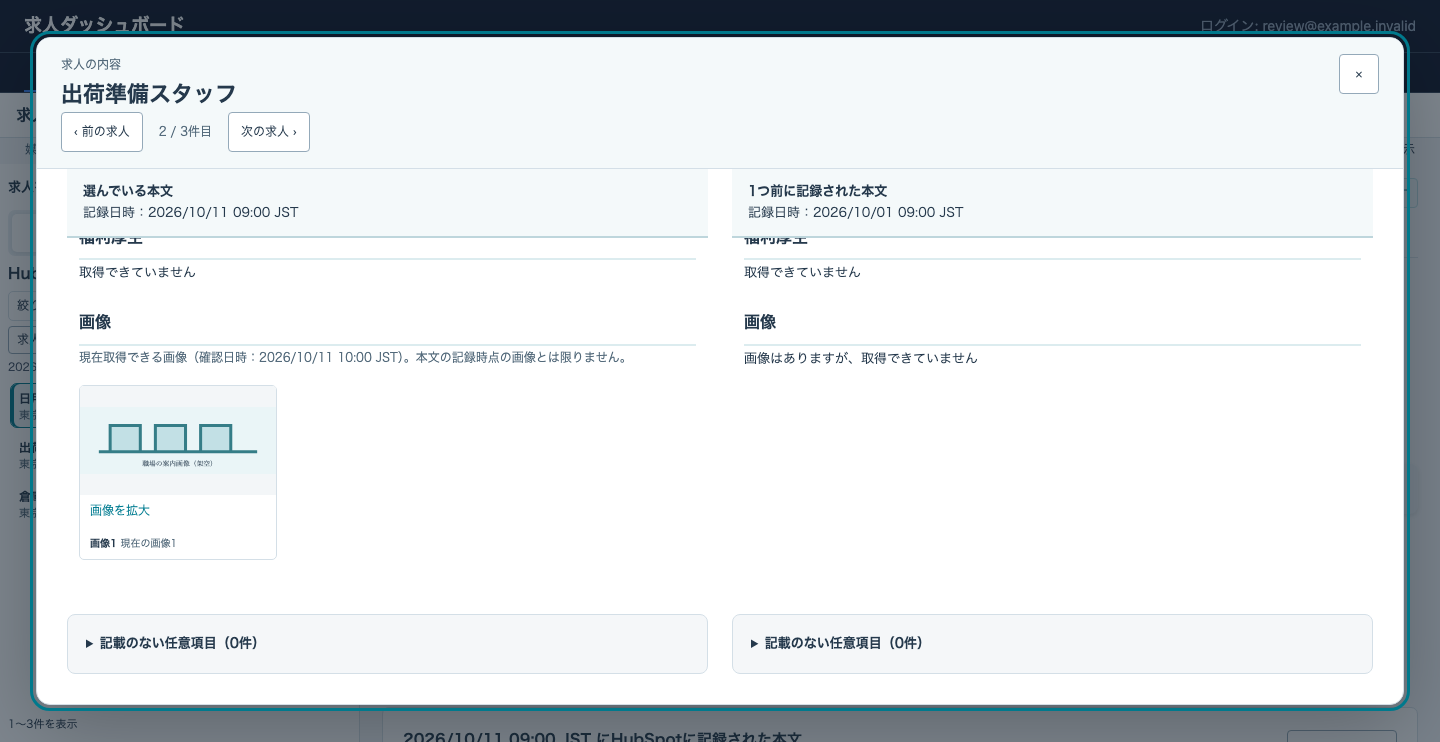
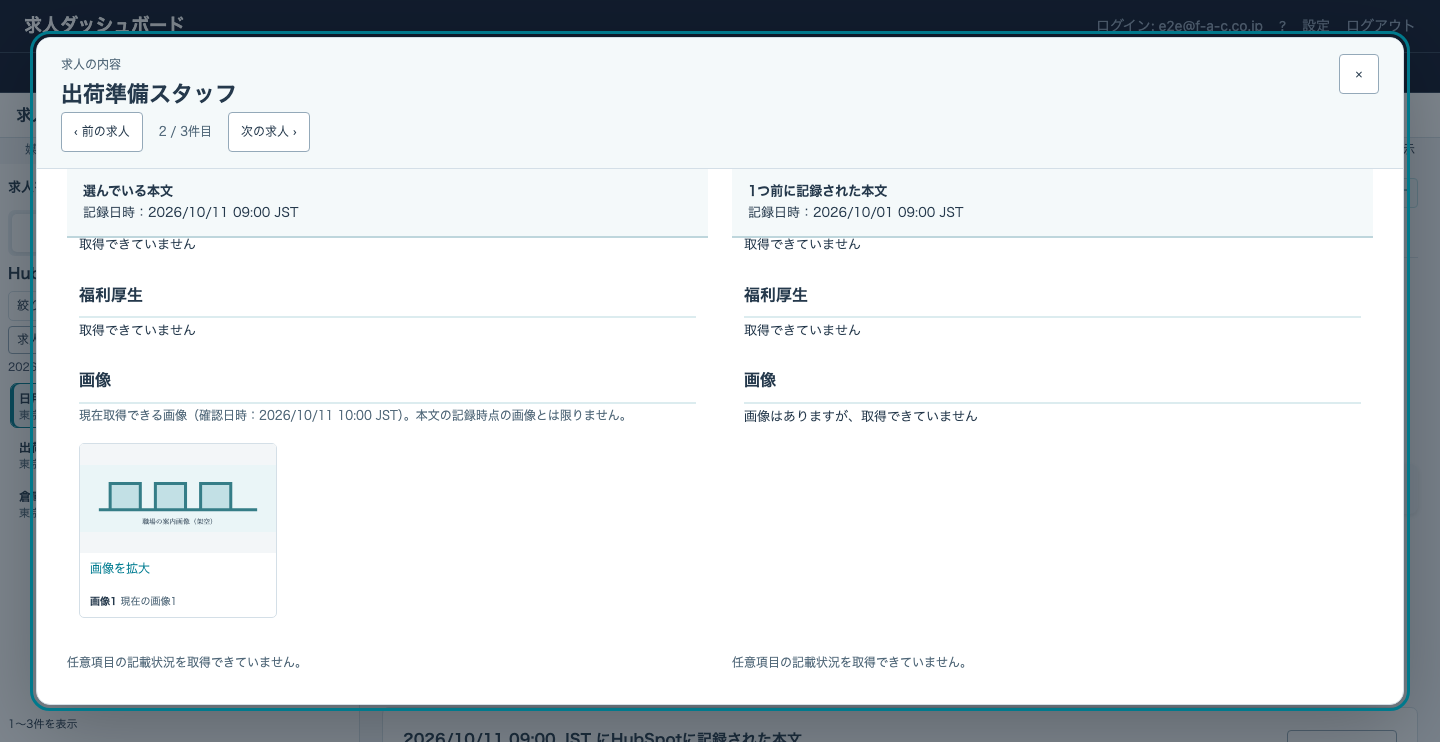
取得不能の空欄表示と短文・長文の変更文字の色付けを修正

diff --git a/frontend/src/screens/job-copy/listingPopupModel.ts b/frontend/src/screens/job-copy/listingPopupModel.ts
@@ -42,9 +42,11 @@ export function listingPopupModel(job: JobCopyRecord, version?: CopyVersion) {
   const row = Object.fromEntries(fields);
   const get = (key: string) => fields.get(key) ?? '';
   const entry = (key: string): ListingEntry => ({ key, label: comparisonLabel(key), value: comparisonValue(key, get(key), raw, row) });
-  const hasSalary = ['給与形態', '基本給与 最小', '基本給与 最大'].some(key => get(key).trim());
+  const salaryFieldKeys = ['給与形態', '基本給与 最小', '基本給与 最大'];
+  const salaryKnown = bodyAvailable && salaryFieldKeys.every(key => fields.has(key));
+  const hasSalary = salaryFieldKeys.some(key => get(key).trim());
   const salary = hasSalary ? composeSalary(get('給与形態').trim(), get('基本給与 最小').trim(), get('基本給与 最大').trim())
-    : bodyAvailable && (structured || ['給与形態', '基本給与 最小', '基本給与 最大'].every(key => fields.has(key))) ? '記載なし' : '取得できていません';
+    : salaryKnown ? '記載なし' : '取得できていません';
   const consumed = new Set(['案件名', '公開', ...imageKeys]);
   const sections: ListingSection[] = groups.map(([heading, keys]) => {
     keys.forEach(key => consumed.add(key));
@@ -54,7 +56,7 @@ export function listingPopupModel(job: JobCopyRecord, version?: CopyVersion) {
       if (hasSalary) entries.unshift({ key: 'salary', label: '給与', value: salary });
     }
     if (groups.findIndex(group => group[0] === heading) < 7 && (heading === '給与' ? !hasSalary : !get(keys[0] ?? '').trim())) {
-      const known = bodyAvailable && (heading === '勤務地・アクセス' ? fields.has('勤務地') : structured || fields.has(keys[0] ?? ''));
+      const known = heading === '給与' ? salaryKnown : bodyAvailable && (heading === '勤務地・アクセス' ? fields.has('勤務地') : structured || fields.has(keys[0] ?? ''));
       entries.unshift({ key: heading === '給与' ? 'salary' : keys[0] ?? heading, label: heading, value: known ? '記載なし' : '取得できていません', unavailable: !known });
     }
     return { heading, entries };
@@ -77,11 +79,12 @@ export function listingPopupModel(job: JobCopyRecord, version?: CopyVersion) {
   const publication = get('公開').trim() ? displayCode('公開', get('公開')) === '確認が必要' ? '確認が必要' : publicationLabel(get('公開'))
     : version?.observedPublicationStatus ? publicationLabel(version.observedPublicationStatus) : (current || !version) ? publicationLabel(job.listingPublicationStatus ?? null) : '未取得';
   const title = get('案件名').trim() || job.title;
-  const location = get('勤務地').trim() || ((current || !version) ? job.location : '') || (bodyAvailable && fields.has('勤務地') ? '記載なし' : '取得できていません');
+  const location = get('勤務地').trim() || (bodyAvailable && fields.has('勤務地') ? '記載なし' : '取得できていません');
   const mainKeys = new Set(['案件名', '公開', '仕事内容', '勤務地', '勤務時間', '応募資格', '休日・休暇', '福利厚生', '給与形態', '基本給与 最小', '基本給与 最大', ...imageKeys]);
-  const missing = bodyAvailable && structured ? columns.filter(key => !isManagement(key) && !mainKeys.has(key) && !get(key).trim()).map(comparisonLabel) : [];
+  const optionalFieldsKnown = bodyAvailable && structured;
+  const missing = optionalFieldsKnown ? columns.filter(key => !isManagement(key) && !mainKeys.has(key) && !get(key).trim()).map(comparisonLabel) : [];
   const total = (current || !version) ? job.overallApplications?.total ?? job.listingApplicationCount : undefined;
-  return { sections, missing, images, observedImages, imageReason, imageSignature, bodyAvailable, structured, hasCurrentConditions, salary, publication,
+  return { sections, missing, images, observedImages, imageReason, imageSignature, bodyAvailable, structured, optionalFieldsKnown, hasCurrentConditions, salary, publication,
     title, location,
     applications: total == null ? '未取得' : `${String(total)}件`,
   };

diff --git a/frontend/src/screens/job-copy/ListingPopup.test.tsx b/frontend/src/screens/job-copy/ListingPopup.test.tsx
@@ -313,3 +313,44 @@ it('keeps the current copy while loading and after a failed switch, then permits
   expect(screen.getByRole('heading', { name: '確認中の求人' })).toBeTruthy();
   expect(screen.getByRole('button', { name: '次の求人 ›' })).toHaveProperty('disabled', false);
 });
+
+it.each([
+  [{ 給与形態: '' }, '取得できていません'],
+  [{ 給与形態: '', '基本給与 最小': '' }, '取得できていません'],
+  [{ 給与形態: '', '基本給与 最小': '', '基本給与 最大': '' }, '記載なし'],
+] as const)('uses the same salary availability in the AirWork summary and body for %j', (fields, expected) => {
+  const job = listingRecord({ listing: { ...listing, media: 'airwork' }, current_fields: fields, versions: [{ written_at: '2026-10-11T00:00:00Z', body: '商品を検品します。', image_urls: null }], history_counts: {}, history_may_be_incomplete: false });
+  render(<ListingPopup job={job} version={job.versions[0]} onClose={vi.fn()} />);
+  const dialog = screen.getByRole('dialog');
+  expect(dialog.querySelector('.jc-listing-popup-summary > div:nth-child(5) dd')?.textContent).toBe(expected);
+  const salary = [...dialog.querySelectorAll('.jc-listing-popup-section')].find(section => section.querySelector('h3')?.textContent === '給与');
+  expect(salary?.querySelector('p')?.textContent).toBe(expected);
+  expect(dialog.querySelectorAll('.jc-listing-popup-missing')).toHaveLength(0);
+  expect(screen.getByText('任意項目の記載状況を取得できていません。')).toBeTruthy();
+  expect(dialog.textContent).not.toContain('記載のない任意項目（0件）');
+});
+
+it('does not replace an explicitly empty acquired location with the current summary location', () => {
+  const job = record(); job.currentListingFields = { 勤務地: '' };
+  const model = listingPopupModel(job, job.versions[0]);
+  expect(model.location).toBe('記載なし');
+  expect(model.sections.find(section => section.heading === '勤務地・アクセス')?.entries[0]?.value).toBe('記載なし');
+});
+
+it.each([
+  ['検品', '梱包', '検品', '梱包'],
+  ['前'.repeat(299) + '検品' + '後'.repeat(299), '前'.repeat(299) + '梱包' + '後'.repeat(299), '検品', '梱包'],
+  ['検'.repeat(600), '梱'.repeat(600), '検'.repeat(600), '梱'.repeat(600)],
+])('colours changed text on both sides for %s → %s', (before, after, removed, added) => {
+  const job = record({ 仕事内容: after });
+  const selected = job.versions[0]; if (!selected) throw new Error('掲載本文が必要です');
+  job.versions.unshift({ ...selected, id: 'before-text', comparisonBody: rowBody({ 案件名: listing.title, 仕事内容: before, 給与形態: '月給', '基本給与 最小': '213000', '基本給与 最大': '249000', 公開: '公開' }) });
+  render(<ListingPopup job={job} version={selected} onClose={vi.fn()} />);
+  const row = screen.getByRole('dialog').querySelector('.jc-listing-comparison-row');
+  expect(row?.querySelectorAll('[aria-label="変更あり"]')).toHaveLength(2);
+  const paragraphs = row?.querySelectorAll('p');
+  expect(paragraphs?.[0]?.textContent).toBe(after);
+  expect(paragraphs?.[1]?.textContent).toBe(before);
+  expect([...paragraphs?.[0]?.querySelectorAll('mark') ?? []].map(mark => mark.textContent).join('')).toBe(added);
+  expect([...paragraphs?.[1]?.querySelectorAll('mark') ?? []].map(mark => mark.textContent).join('')).toBe(removed);
+});

diff --git a/frontend/src/screens/job-copy/ListingPopup.tsx b/frontend/src/screens/job-copy/ListingPopup.tsx
@@ -3,7 +3,7 @@ import type { CopyVersion, JobCopyRecord } from './data';
 import { formatDateTimeJst } from './format';
 import { ImageGallery } from './ImageGallery';
 import { listingComparisonRows, listingPopupModel } from './listingPopupModel';
-import { markInlineChanges } from './diff';
+import { markValueChanges } from './diff';
 import './listing-popup.css';
 
 export interface ListingNavigation {
@@ -11,7 +11,7 @@ export interface ListingNavigation {
   load: (id: string, signal: AbortSignal) => Promise<JobCopyRecord>;
 }
 function ChangedText({ value, reference, different }: { value: string; reference: string; different: boolean }) {
-  const segments = different ? markInlineChanges([{ kind: 'removed', text: reference }, { kind: 'added', text: value }]).find(line => line.kind === 'added')?.segments : undefined;
+  const segments = different ? markValueChanges(reference, value) : undefined;
   return <p className={value === '記載なし' ? 'jc-listing-absent' : undefined}>{segments ? segments.map((segment, index) => segment.changed ? <mark key={index} className="jc-mark-added">{segment.text}</mark> : segment.text) : value}</p>;
 }
 export function ListingPopup({ job, version, onClose, returnFocus, navigation }: {
@@ -71,7 +71,7 @@ export function ListingPopup({ job, version, onClose, returnFocus, navigation }:
     <h3>{imagesChanged && <span className="jc-listing-change-dot" aria-label="変更あり">● </span>}画像</h3>
     {item.images?.length ? <><ImageGallery failureMessage="画像はありますが、取得できていません" title="掲載画像" images={item.images} />{recorded?.historicalImageBytesAvailable === false && <p className="jc-listing-popup-note">画像は当時と異なる可能性があります。</p>}</> : item.observedImages ? <><p className="jc-listing-popup-note">現在取得できる画像（確認日時：{formatDateTimeJst(item.observedImages.observedAt, '未取得')}）。本文の記録時点の画像とは限りません。</p><ImageGallery failureMessage="画像はありますが、取得できていません" title="掲載画像" images={item.observedImages.images} /></> : <p>{item.imageReason}</p>}
   </section>;
-  const missing = (item: typeof model) => <details className="jc-listing-popup-missing"><summary>記載のない任意項目（{item.missing.length}件）</summary><ul>{item.missing.map((name, i) => <li key={i}>{name}</li>)}</ul></details>;
+  const missing = (item: typeof model) => !item.optionalFieldsKnown ? <p className="jc-listing-popup-note">任意項目の記載状況を取得できていません。</p> : <details className="jc-listing-popup-missing"><summary>記載のない任意項目（{item.missing.length}件）</summary><ul>{item.missing.map((name, i) => <li key={i}>{name}</li>)}</ul></details>;
   return <dialog ref={dialog} className="jc-listing-popup" role="dialog" aria-modal="true" aria-labelledby={headingId} tabIndex={-1}
     onKeyDown={event => {
       if (!(event.target instanceof HTMLElement) || event.target.closest('textarea, select, [contenteditable]:not([contenteditable="false"])') || event.target.matches('input:not([type="checkbox"]):not([type="radio"]):not([type="button"])') || event.target.closest('dialog') !== dialog.current) return;

diff --git a/frontend/src/screens/job-copy/diff.ts b/frontend/src/screens/job-copy/diff.ts
@@ -87,7 +87,7 @@ export interface MarkedDiffLine extends CopyDiffLine {
   segments?: InlineSegment[];
 }
 
-/** Bound on token pairs compared within one line pair; longer pairs keep the whole-line colour only. */
+/** Bound on differing token pairs after removing the common prefix and suffix. */
 const MAX_INLINE_CELLS = 250_000;
 
 /** Runs of digits (with , and .) and of Latin letters stay whole, so 250,000 → 270,000 marks the number. */
@@ -96,7 +96,14 @@ function tokens(text: string): string[] {
 }
 
 function inlineSegments(before: string, after: string): [InlineSegment[], InlineSegment[]] | null {
-  const a = tokens(before); const b = tokens(after);
+  const originalA = tokens(before); const originalB = tokens(after);
+  let start = 0;
+  while (start < originalA.length && start < originalB.length && originalA[start] === originalB[start]) start += 1;
+  let endA = originalA.length; let endB = originalB.length;
+  while (endA > start && endB > start && originalA[endA - 1] === originalB[endB - 1]) { endA -= 1; endB -= 1; }
+  const prefix = originalA.slice(0, start).join('');
+  const suffix = originalA.slice(endA).join('');
+  const a = originalA.slice(start, endA); const b = originalB.slice(start, endB);
   if ((a.length + 1) * (b.length + 1) > MAX_INLINE_CELLS) return null;
   const width = b.length + 1;
   const lengths = new Uint32Array((a.length + 1) * width);
@@ -110,12 +117,14 @@ function inlineSegments(before: string, after: string): [InlineSegment[], Inline
     const last = list[list.length - 1];
     if (last?.changed === changed) last.text += text; else list.push({ text, changed });
   };
+  if (prefix) { push(left, prefix, false); push(right, prefix, false); }
   let i = 0; let j = 0;
   while (i < a.length || j < b.length) {
     if (i < a.length && j < b.length && a[i] === b[j]) { push(left, at(a, i), false); push(right, at(b, j), false); i += 1; j += 1; }
     else if (i < a.length && (j === b.length || at(lengths, (i + 1) * width + j) >= at(lengths, i * width + j + 1))) { push(left, at(a, i), true); i += 1; }
     else { push(right, at(b, j), true); j += 1; }
   }
+  if (suffix) { push(left, suffix, false); push(right, suffix, false); }
   return [readable(left), readable(right)];
 }
 
@@ -158,4 +167,12 @@ export function markInlineChanges(lines: readonly CopyDiffLine[]): MarkedDiffLin
     }
   }
   return result;
+}
+
+/** A replaced field must remain coloured even when no characters are shared or
+ * the bounded inline comparison falls back to a whole-field replacement. */
+export function markValueChanges(before: string, after: string): InlineSegment[] {
+  if (before === after) return [{ text: after, changed: false }];
+  return markInlineChanges([{ kind: 'removed', text: before }, { kind: 'added', text: after }])
+    .find(line => line.kind === 'added')?.segments ?? [{ text: after, changed: true }];
 }

diff --git a/frontend/src/screens/job-copy/DealComparison.tsx b/frontend/src/screens/job-copy/DealComparison.tsx
@@ -9,7 +9,7 @@ import type { JobCopyRecord } from './data';
 import { compareJobs, comparisonValue, salaryAmount } from './dealComparisonModel';
 import { composeSalary } from './hrhCopy';
 import type { ComparedJob } from './dealComparisonModel';
-import { markInlineChanges } from './diff';
+import { markValueChanges } from './diff';
 const columns = [['title', '求人名'], ['media', '媒体'], ['publication', '公開状況'], ['occupation', '職種'], ['location', '勤務地'], ['salary', '給与'], ['applications', '応募数'], ['body_changed_at', '本文の最終変更日'], ['hours', '勤務時間'], ['holidays', '休日'], ['salary_kind', '給与形態'], ['salary_min', '給与の下限'], ['salary_max', '給与の上限']] as const;
 const optionalColumns = columns.slice(8);
 type ColumnKey = typeof columns[number][0];
@@ -36,7 +36,7 @@ function ComparisonCell({ value, reference, different }: { value: string; refere
     observer.observe(element);
     return () => { observer.disconnect(); };
   }, [value, expanded]);
-  const segments = different && value !== '未取得' && reference !== '未取得' ? markInlineChanges([{ kind: 'removed', text: reference }, { kind: 'added', text: value }]).find(line => line.kind === 'added')?.segments : undefined;
+  const segments = different && value !== '未取得' && reference !== '未取得' ? markValueChanges(reference, value) : undefined;
   const content = segments ? segments.map((segment, i) => segment.changed ? <mark className="jc-mark-added" key={i}>{segment.text}</mark> : segment.text) : value;
   const long = clipped || value.length > 100 || value.split('\n').length > 3;
   return <><div ref={preview} className={expanded ? 'jc-comparison-full' : 'jc-comparison-preview'}>{content}</div>{long && <button className="jc-button" aria-expanded={expanded} onClick={() => { setExpanded(!expanded); }}>{expanded ? '閉じる' : '全文を見る'}</button>}</>;

diff --git a/frontend/src/screens/job-copy/JobTimeline.tsx b/frontend/src/screens/job-copy/JobTimeline.tsx
@@ -416,7 +416,7 @@ function JobTimelineForJob({ job, billing: injected, marketMode = 'api', onOpenV
           return <div key={change.versionId} className="jt-salary-item">
             <div className={`jt-salary${className}`} aria-hidden="true" style={{ ...span(range, period.start, period.end ?? addDays(asOf, 1)), bottom: `calc(${String(height)}% + 14px)` }} />
             <div className={`jt-salary-label${className}`} style={{ ...pinned(period.start, range), top: `${String(8 + (labelRows[index] ?? 0) * 28)}px` }}
-              title={`${info ? `${change.label}: ${info.raw || '記載なし'}` : `${change.label}: 給与の記載なし`}${change.salaryDirection ? `（${salaryWord[change.salaryDirection]}）` : ''}`}>
+              title={`${info ? `${change.label}: ${info.raw || '記載なし'}` : `${change.label}: 給与は未取得`}${change.salaryDirection ? `（${salaryWord[change.salaryDirection]}）` : ''}`}>
               {change.salaryDirection && <i className={`jt-salary-dir jt-salary-${change.salaryDirection}`} role="img" aria-label={salaryWord[change.salaryDirection]}>{salaryMark[change.salaryDirection]}</i>}<span>{salaryLabel(info)}</span>
             </div>
           </div>;

diff --git a/frontend/src/screens/job-copy/DealComparison.test.tsx b/frontend/src/screens/job-copy/DealComparison.test.tsx
@@ -140,3 +140,14 @@ it('reads only displayed rows for dates, preserves unknowns and drops a previous
   expect(table.textContent).not.toContain('2026/01/01');
   expect(api.mock.calls.filter(call => String(call[0]).includes('listing-body-dates')).map(call => String(call[0]).split('ids=')[1])).toEqual(['1', '51']);
 });
+
+it.each([['検品', '梱包'], ['検'.repeat(600), '梱'.repeat(600)]])('colours whole field replacements in the deal comparison for %s', (before, after) => {
+  const { container } = render(<ParallelJobs jobs={[
+    { id: '1', title: '検品の求人', media: 'HRハッカー', body: `仕事内容：${before}` },
+    { id: '2', title: '梱包の求人', media: 'AirWork', body: `仕事内容：${after}` },
+  ]} />);
+  const marks = container.querySelectorAll('mark');
+  expect(marks).toHaveLength(2);
+  expect(marks[0]?.textContent).toBe(before);
+  expect(marks[1]?.textContent).toBe(after);
+});

diff --git a/frontend/src/screens/job-copy/diff.test.ts b/frontend/src/screens/job-copy/diff.test.ts
@@ -101,3 +101,11 @@ describe('markInlineChanges', () => {
     expect(unrelated.every(line => line.segments === undefined)).toBe(true);
   });
 });
+
+it('keeps the 598 common characters plain in a 600-character inline comparison', () => {
+  const prefix = '前'.repeat(299), suffix = '後'.repeat(299);
+  const before = prefix + '検品' + suffix, after = prefix + '梱包' + suffix;
+  const lines = markInlineChanges([{ kind: 'removed', text: before }, { kind: 'added', text: after }]);
+  expect(lines[0]?.segments).toEqual([{ text: prefix, changed: false }, { text: '検品', changed: true }, { text: suffix, changed: false }]);
+  expect(lines[1]?.segments).toEqual([{ text: prefix, changed: false }, { text: '梱包', changed: true }, { text: suffix, changed: false }]);
+});

diff --git a/frontend/src/screens/job-copy/salaryExtract.ts b/frontend/src/screens/job-copy/salaryExtract.ts
@@ -131,7 +131,7 @@ export function sameSalary(left: SalaryInfo | null, right: SalaryInfo | null): b
 const man = (value: number) => `${(value / 10_000).toLocaleString('ja-JP', { maximumFractionDigits: 1 })}万`;
 /** Short label for the timeline ("月給25万〜28万円", "時給1,100円", "日給12,000円"). */
 export function salaryLabel(info: SalaryInfo | null): string {
-  if (!info) return '給与の記載なし';
+  if (!info) return '未取得';
   if (info.kind === '不明') return '不明';
   const format = (value: number) => info.kind === '時給' || info.kind === '日給' ? value.toLocaleString('ja-JP') : man(value);
   if (info.min === null) return info.max === null ? '不明' : `${info.kind}${format(info.max)}円まで`;

diff --git a/frontend/src/screens/job-copy/salaryExtract.test.ts b/frontend/src/screens/job-copy/salaryExtract.test.ts
@@ -38,7 +38,7 @@ describe('salary extraction from the body', () => {
   it('returns null when the body has no salary line', () => {
     expect(extractSalary('仕事内容：配送\n勤務時間：8:00〜17:00')).toBeNull();
     expect(extractSalary('')).toBeNull();
-    expect(salaryLabel(null)).toBe('給与の記載なし');
+    expect(salaryLabel(null)).toBe('未取得');
   });
   it('does not read hours as pay and compares by kind and amounts', () => {
     expect(parseSalaryText('時給1,100円（1日8時間）')).toMatchObject({ min: 1100, max: 1100 });

diff --git a/docs/architecture/job-copy-listing-popup-v2-plan.md b/docs/architecture/job-copy-listing-popup-v2-plan.md
@@ -28,9 +28,19 @@
 
 ## 確認結果
 
-- フロントエンド全153ファイル・2,019テスト、型検査、lint、ビルドが通過。
+- フロントエンド全153ファイル・2,029テスト、型検査、lint、ビルドが通過。
 - Rust の掲載履歴・画像・取得制御の12テストと `cargo fmt --check` が通過。
-- 実サーバーでの対象E2E 8件が通過。追加のローカル確認では、表示中の応募数で並べ替えた後の矢印移動も確認。
-- 1440×742 の8枚を保存。2列、変更だけ、画像と閉じた任意項目、開いた任意項目、左矢印移動後、登録なし、画像取得不能、AirWork画像を記録。
+- 実サーバーでの対象E2E 10件が通過。追加のローカル確認では、表示中の応募数で並べ替えた後の矢印移動も確認。
+- 1440×742 の12枚を保存。2列、変更だけ、画像と閉じた任意項目、開いた任意項目、左矢印移動後、登録なし、画像取得不能、AirWork画像を記録。
 - 画像の登録状況そのものが不明な場合は「画像の登録状況を取得できていません」と表示し、存在を断定しない。
 - 切り替え対象は呼び出し元で現在表示中の求人。ページを移動して別の50件を表示した場合は、その表示中の順序を使う。一覧の範囲外の直接リンクでは前後移動を無効にする。
+
+## 空欄・取得不能・文字の色付けの追加検証
+
+給与の種類・下限・上限をすべて取得して空と確認できた場合だけ「記載なし」とし、上部と本文の判定を共通にした。勤務地の明示的な空欄も現在の要約値で置き換えない。任意項目の取得範囲を確認できない場合は件数を表示せず「任意項目の記載状況を取得できていません」と表示する。
+
+対象画面全体の「版」「取得」「未取得」「記載なし」と文字差分の描画箇所を検索した。給与タイムラインにも給与を抽出できないときの「記載なし」の断定があったため「未取得」に統一した。取り込んだ課金情報の明示的な空欄表示は保持した。
+
+差分の共通する前後を先に分けることで、600文字でも598文字が同じ場合は変更した2文字だけを色付けする。共通文字がない場合や比較の上限を超える場合の全文置換にも色を付ける。取引の横並び比較にも同じ処理を適用し、短文・600文字・未取得同士の表示を具体値で確認した。
+
+追加の1440幅の画像は `review-01`〜`review-04`。短文置換、600文字の一部変更・全文置換、任意項目の取得不能の4枚を保存した。
